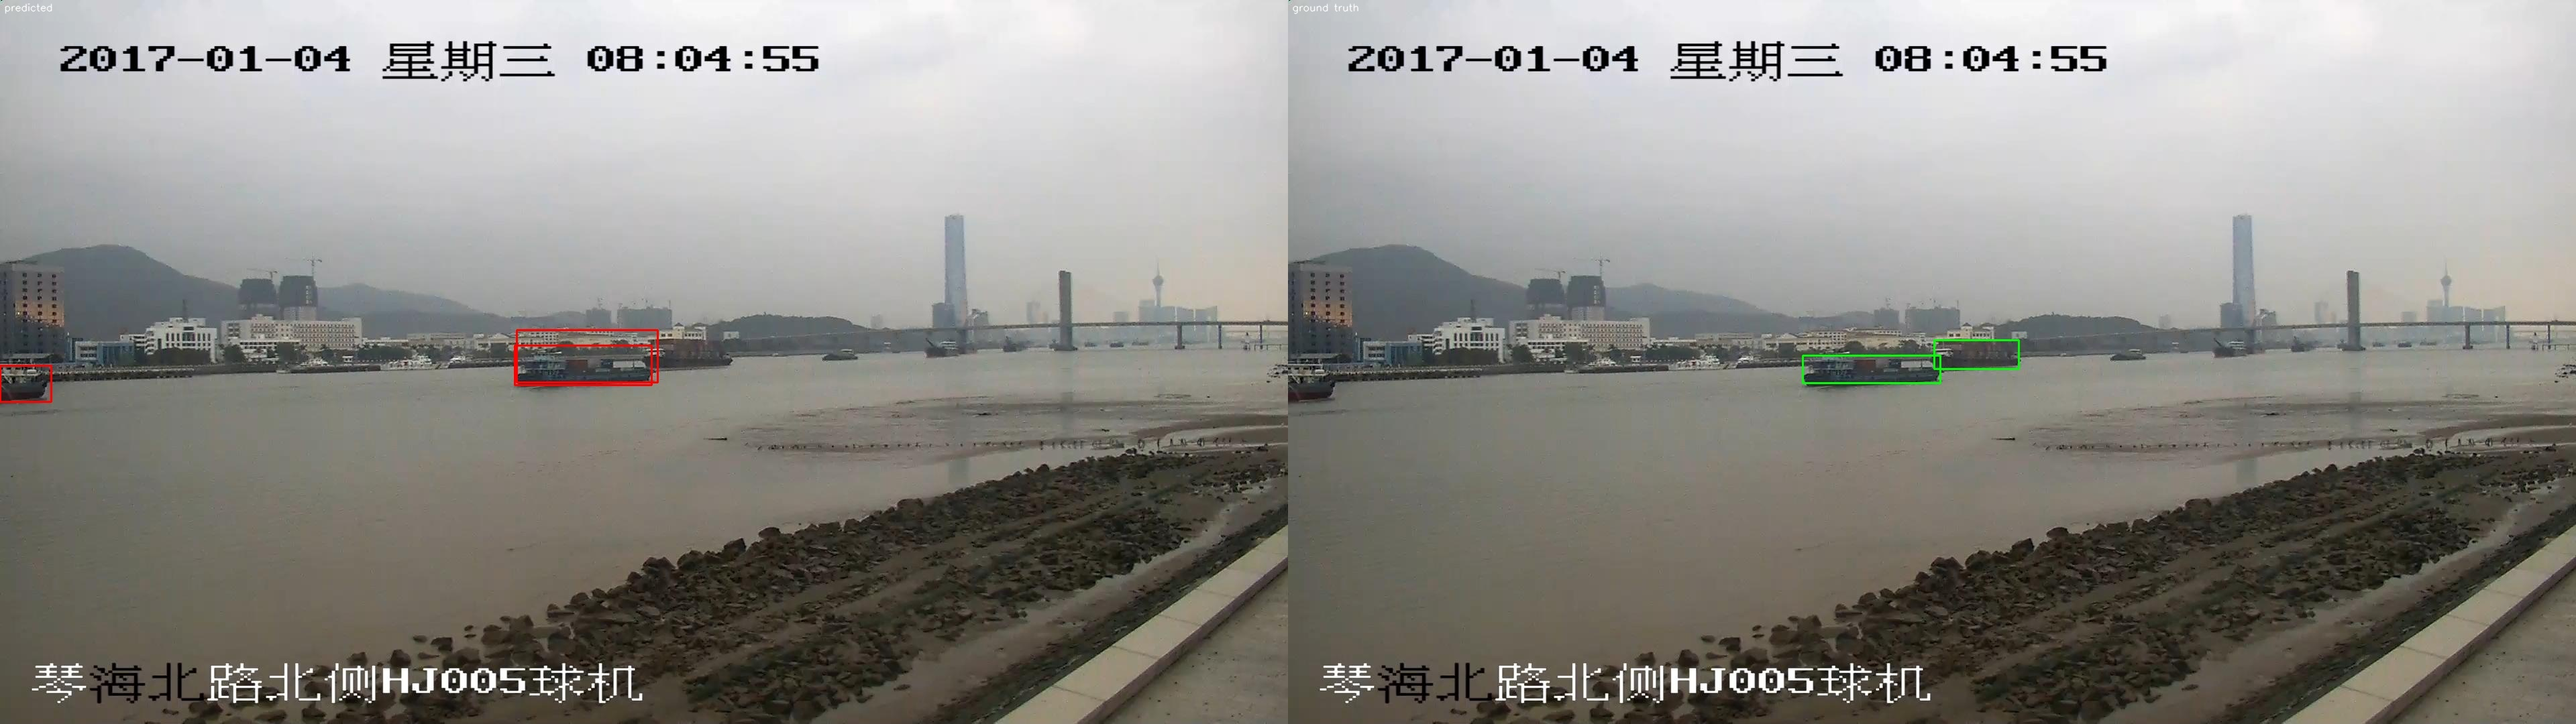
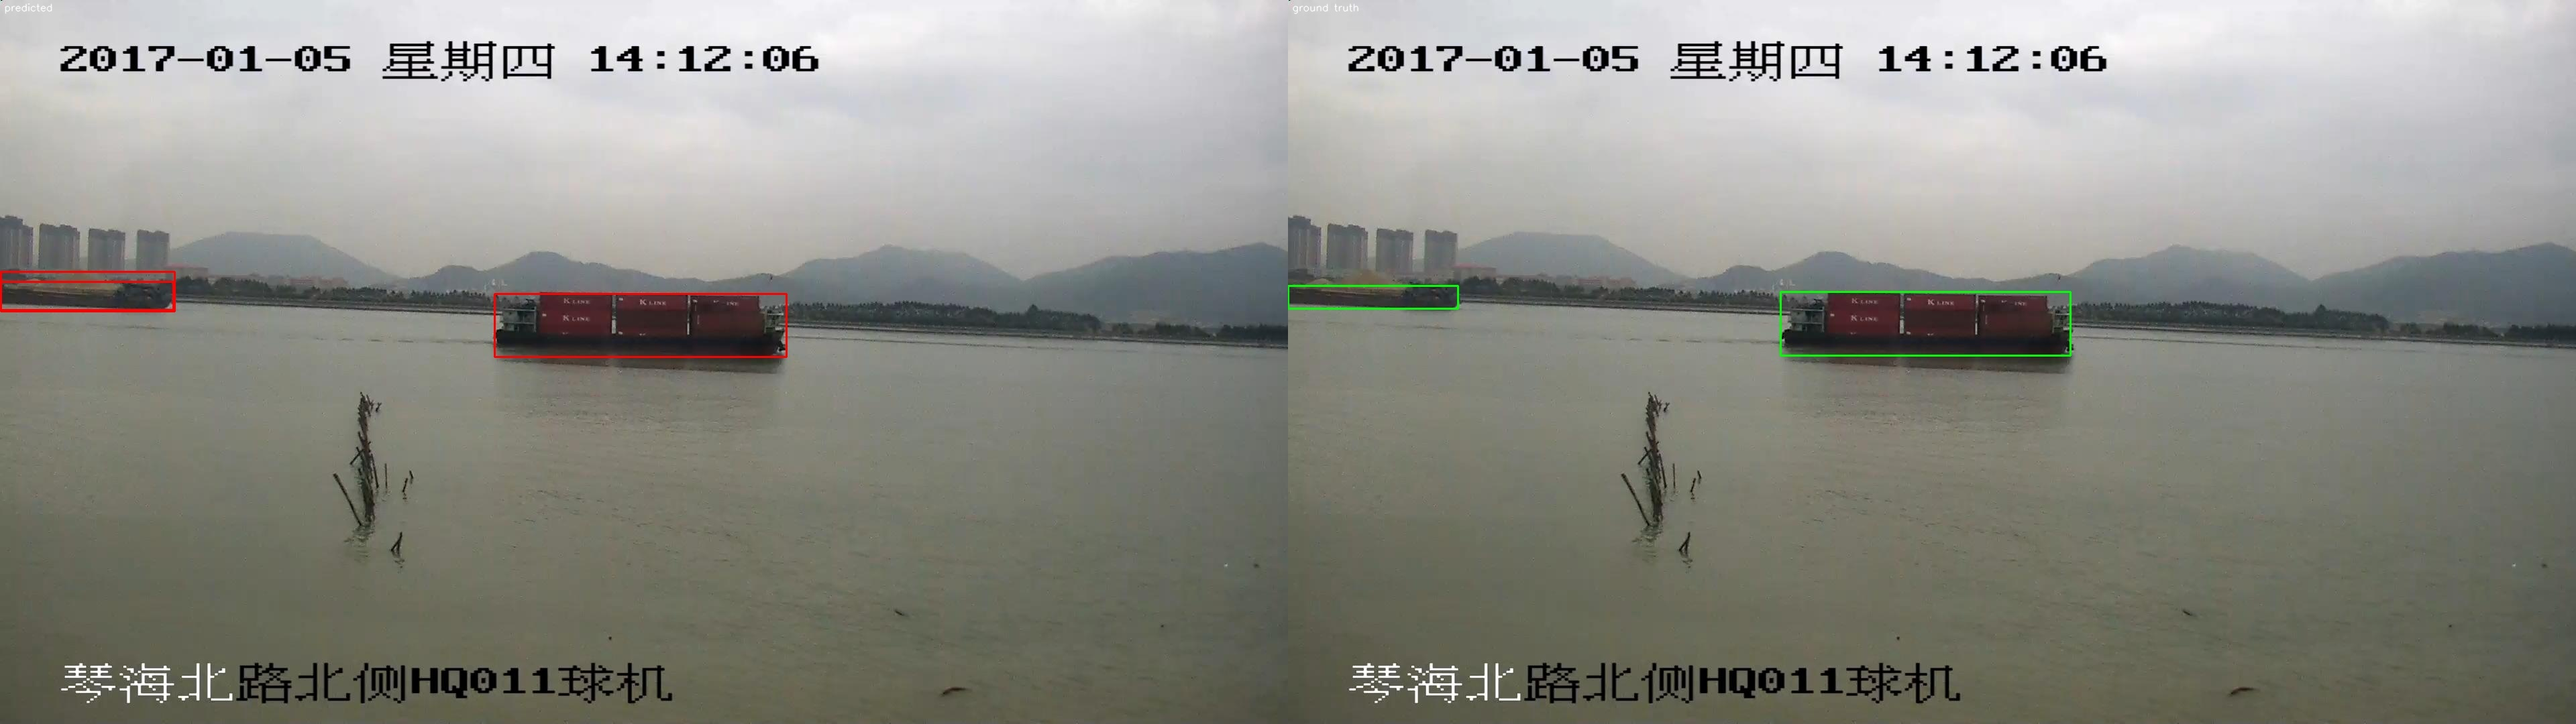
Update boat detection results with a larger (1500-image) training sample
The 120-image run looked like a wash (fine-tuned ~= zero-shot on mAP50),
but checking predictions at a practical fixed confidence threshold
(0.25) instead of trusting the aggregate mAP revealed the real problem:
the zero-shot model often localizes boats correctly but isn't confident
about them, and fine-tuning on only 120 images didn't fix that
calibration gap either (40% of images still got zero detections).

Scaling to 1200 training images (40 epochs) fixes it: mAP50-95 0.577 ->
0.774, and zero-detection images drop from 40% to 0%. Re-ran the
zero-shot baseline on the same larger validation split for a fair
comparison, and regenerated the best/median/worst example images from
the improved checkpoint.

diff --git a/README.md b/README.md
@@ -209,36 +209,53 @@ ship, fishing boat, etc.) into one: this project asks "is there a boat",
 not ship taxonomy.
 
 Measured the same way as the horizon baseline — a number before any
-training, not a result to lean on — on a fixed-seed 150-image sample (120
-train / 30 val, 34 ground-truth boxes), using ultralytics' own `val()`
-rather than a hand-rolled metric (see below for why):
+training, not a result to lean on — on a fixed-seed 1500-image sample
+(1200 train / 300 val, 396 ground-truth boxes), using ultralytics' own
+`val()` rather than a hand-rolled metric (see below for why):
 
 ```
                               mAP50    mAP50-95   Precision   Recall
-Zero-shot (stock yolov8n.pt)  0.975     0.589      1.000      0.971
-Fine-tuned (30 epochs)        0.975     0.577      1.000      0.971
+Zero-shot (stock yolov8n.pt)  0.945     0.616      1.000      0.944
+Fine-tuned (40 epochs)        0.995     0.774      1.000      0.995
 ```
 
 ```bash
 pip install -r requirements-detection.txt --index-url https://download.pytorch.org/whl/cpu
-python scripts/fetch_seaships_sample.py --n 150
-python scripts/evaluate_boat_detection.py                                        # zero-shot
-python scripts/train_boat_detection.py --epochs 30                               # fine-tune
+python scripts/fetch_seaships_sample.py --n 1500
+python scripts/evaluate_boat_detection.py                                            # zero-shot
+python scripts/train_boat_detection.py --epochs 40 --checkpoint data/checkpoints/yolov8n_boats.pt
 python scripts/evaluate_boat_detection.py --checkpoint data/checkpoints/yolov8n_boats.pt
 ```
 
-**The honest reading of this:** fine-tuning did not clearly beat the
-zero-shot baseline here — mAP50-95 is marginally *worse* after
-fine-tuning (0.577 vs 0.589). This isn't the result I expected, and I'm
-reporting it rather than cherry-picking a more flattering run. The likely
-explanation: SeaShips ships (cargo carriers, container ships, tankers)
-are large, high-contrast rectangular hulls on open water — visually
-generic enough that COCO's own "boat" class, trained on a huge diverse
-set of real-world boat photos, already generalizes to them zero-shot. 120
-training images for 30 epochs wasn't enough signal to clearly beat an
-already-strong baseline on this metric. A harder, more sailing-specific
-dataset (SMD, or actual race footage, see Known limitations below) is a
-more likely place for fine-tuning to actually pay off.
+**mAP alone understates what fine-tuning actually fixed.** An earlier run
+on a much smaller sample (120 train / 30 val — still in the git history)
+showed fine-tuned and zero-shot landing on nearly identical mAP50
+(0.975 both), which on its own reads as "fine-tuning didn't help." It
+missed the real story, visible only by checking predictions at a fixed,
+practical confidence threshold (0.25 — what you'd actually use, not the
+threshold-sweep mAP integrates over) instead of trusting the aggregate
+metric alone:
+
+```
+                          images with zero       images with at least
+                          detections @conf=0.25  one missed box (IoU<0.5)
+Zero-shot                 34%                     61%
+Fine-tuned (120 train)    40%                     ~53%
+Fine-tuned (1200 train)    0%                      3%
+```
+
+The zero-shot model *can* localize most SeaShips boats (that's what the
+high mAP measures, since mAP sweeps every confidence level including
+near-zero ones) but is rarely *confident* about them — COCO's "boat"
+class never saw this specific port/hull style, so at a threshold you'd
+actually deploy with, it misses most of the time. Fine-tuning on only
+120 images didn't fix that calibration problem (not enough signal to
+learn confident predictions, same root cause as the still-close mAP).
+Fine-tuning on 1200 images did: zero images with no detection at all,
+and the model's confidence is now trustworthy at a normal operating
+threshold, not just somewhere on the full sweep. This is the more
+honest headline number for "does fine-tuning work here" than mAP alone
+— confirmed by rerunning the exact same check, nothing cherry-picked.
 
 **On the metric itself:** an earlier version of this evaluation used a
 hand-rolled IoU-matching AP (same approach as `evaluate_horizon.py`). It
@@ -258,18 +275,19 @@ the un-fine-tuned 80-class model can be scored fairly. This instability
 is itself the more honest takeaway than either individual number: mAP on
 a 30-image eval set is noisy, full stop.
 
-**Visual comparison** (red: predicted, green: ground truth, same
-fine-tuned checkpoint as above):
+**Visual comparison** (red: predicted, green: ground truth, the
+1200-image fine-tuned checkpoint):
 
-| Best (IoU 0.90) | Median (IoU 0.36) | Worst (IoU 0.00) |
+| Best (IoU 0.99) | Median (IoU 0.88) | Worst (IoU 0.43) |
 |---|---|---|
 | ![best](docs/examples/boat_detection_best.jpg) | ![median](docs/examples/boat_detection_median.jpg) | ![worst](docs/examples/boat_detection_worst.jpg) |
 
-The worst case is a small boat moored at the shoreline, blending into the
-dock/building clutter behind it — a real failure mode, not a labeling
-artifact (visible by comparing against the ground-truth panel). The
-median case shows two moored ships close together scored as one merged
-detection instead of two — a localization error, not a missed detection.
+The worst case here is a real but minor localization error, not a miss:
+two ships close together, a container ship and a smaller vessel further
+back, where the model only boxes the nearer one — visible by comparing
+against the two separate ground-truth boxes on the right. Median is now
+0.88 IoU, not 0.36 — a direct, visible consequence of the confidence-
+calibration fix above, not just a better aggregate number.
 
 **Known limitations, not hidden:** SeaShips is shore-camera footage of
 commercial shipping at a fixed Chinese port — a real domain gap from a
@@ -279,9 +297,12 @@ vibrating mast). SMD and actual race-broadcast footage (America's Cup /
 SailGP) are not yet integrated: SMD ships as raw multi-GB video with a
 custom per-frame ground-truth format (horizon + tracking + detection
 combined), which needs its own frame-extraction and parsing pipeline —
-a separate chunk of work from this stage. The 150-image sample (vs. the
-full 7000) and 30-epoch run are both quick-start defaults, not a
-ceiling — `--n` and `--epochs` scale both up.
+a separate chunk of work from this stage. The numbers above use `--n
+1500 --epochs 40`, not the scripts' lighter quick-start defaults (`--n
+150`, `--epochs 30`) — this page is itself the evidence that the
+lighter defaults under-train the model's confidence calibration, so
+anyone reproducing a real result here needs the larger flags; both
+scale up further still.
 
 ## Datasets
 
@@ -313,10 +334,12 @@ ceiling — `--n` and `--epochs` scale both up.
   redistribution license of its own; this project fetches a [public
   Hugging Face mirror](https://huggingface.co/datasets/datnguyentien204/Seaship7000)
   for the same academic/portfolio research use the dataset is normally
-  cited for. A reproducible sample is fetched with:
+  cited for. A reproducible sample is fetched with (`--n 150` is a
+  quick-start default; the boat detection results above use `--n 1500`,
+  since the smaller sample under-trains the model's confidence):
 
   ```bash
-  python scripts/fetch_seaships_sample.py --n 150
+  python scripts/fetch_seaships_sample.py --n 1500
   ```
 
 None of these datasets have sailing-specific gust/wind-zone annotations —
